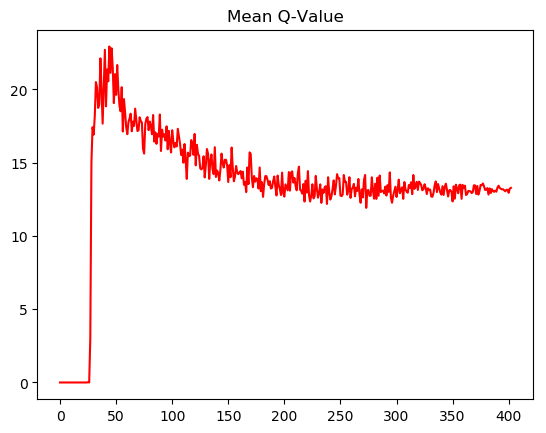
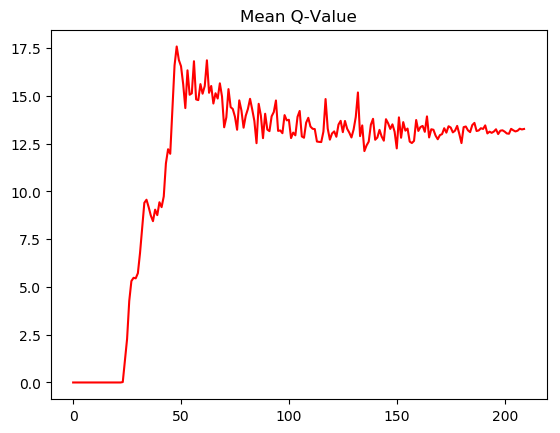
Added deterministic Q-Learning implementation(4x4, 8x8)

diff --git a/QLearning_Deterministic_4x4.py b/QLearning_Deterministic_4x4.py
@@ -1,50 +1,58 @@
-import gym, numpy,random
+import torch, numpy, gym, random
+import torch.nn as nn
+import torch.optim as opt
 import matplotlib.pyplot as plt
 from gym.envs.registration import register
 
 register(
-    id='FrozenLakeDeterministic8x8-v0',
+    id='FrozenLakeDeterministic4x4-v0',
     entry_point='gym.envs.toy_text:FrozenLakeEnv',
-    kwargs={'map_name' : '8x8', 'is_slippery': False}
+    kwargs={'map_name' : '4x4', 'is_slippery': False}
 )
 
-env = gym.make("FrozenLakeDeterministic8x8-v0")
+env = gym.make("FrozenLakeDeterministic4x4-v0")
 action_space = env.action_space.n
 observation_space = env.observation_space.n
-qtable = numpy.zeros((observation_space,action_space))
-# Cant Get Stuck As Easily: qtable = numpy.random.random((observation_space,action_space))
+network = nn.Sequential(nn.Linear(observation_space,4),nn.ReLU(),nn.Linear(4,action_space))
+criterion = nn.MSELoss()
+optimizer = opt.SGD(network.parameters(),lr=0.1)
+#Lower Learning Rate And More Exploration Makes Convergence More Likely
 
 epochs = 100000
 max_epsilon = 1.0
 min_epsilon = 0.01
-#Random Epochs Percentage
-percent = 0.2
+percent = 0.05
 decay_rate = 1/(epochs*percent)
 epsilon = max_epsilon
 
-#A Little Less Than 1 So Actions Dont Reach A Reward Of 1 If They Aren't The Last Action
 discount_factor = 0.99
-learning_rate = 0.6
 
-#Follows Epsilon Greedy Action Selection
+
 def eps_greedy(state):
-    row = qtable[state]
+    state = torch.tensor(numpy.eye(observation_space)[state]).float()
+    qs = network(state)
 
-    if random.random()>=epsilon:
-        action = numpy.argmax(row)
-        return row[action],action
+    if random.random()>epsilon:
+        q,action = qs.max(0)
+        return qs,q,action.item()
     else:
         action = random.randint(0,action_space-1)
-        return row[action],action
+        return qs,qs[action],action
 
-#Returns Highest Expected Reward Estimate For State
 def maxq(state):
-    row = qtable[state]
-    return numpy.max(row)
+    state = torch.tensor(numpy.eye(observation_space)[state]).float()
+    qs = network(state)
+    return qs.max(0)
 
-#Linear Decay
 def decay():
     return max(min_epsilon,epsilon-decay_rate)
+
+def learn(out,target):
+    optimizer.zero_grad()
+    loss = criterion(out,target)
+    loss.backward()
+    optimizer.step()
+    return loss
 
 print("---------TRAINING---------")
 rewards = []
@@ -59,65 +67,64 @@ for e in range(epochs):
 
         while True:
             frames += 1
-            q, action = eps_greedy(state)
+            qs,q, action = eps_greedy(state)
             qval += q.item()
             new_state, reward, done, i = env.step(action)
-
             nt = int(not done)
-            nq = maxq(new_state)
-            qtable[state][action] += learning_rate*( (nt*discount_factor*nq + reward) - q)
+
+            target = qs.clone()
+            nq,naction = maxq(new_state)
+            target[action] = nt*discount_factor*nq + reward
+            learn(qs,target)
 
             runreward+=reward
             state = new_state
-            if done or frames%40 == 0:
+            if done or frames%20 == 0:
                 #print("E: "+str(e)+" F: "+str(frames)+" R: "+str(runreward)+" Eps: "+str(epsilon))
                 rewards.append(runreward)
                 qvals += qval
                 break
-
         epsilon = decay()
         if (e+1)%100==0:
             mean = numpy.mean(rewards[-100:])
-            qvalues.append(qvals/100)
+            qvalues.append(qvals / 100)
             qvals = 0
-            print(str(e+1)+" M: "+str(mean))
+            print(str(e + 1) + " M: " + str(mean))
             rewardmeans.append(mean)
-            if mean==1.0:
+            if mean == 1.0:
                 print("SOLVED!!!")
                 break
 
 print("---------TESTING---------")
-#Tests with 1% randomness
 for e in range(1):
         state = env.reset()
         qs = 0
-        frames = 0
         while True:
-            frames+=1
-
-            q, action = eps_greedy(state)
+            qq, q, action = eps_greedy(state)
             qs+=q
             new_state, reward, done, i = env.step(action)
             env.render()
             state = new_state
-            if done or frames%40 == 0:
+            if done or frames%20 == 0:
                 print(qs)
                 #print("E: "+str(e)+" F: "+str(frames)+" R: "+str(runreward)+" Eps: "+str(epsilon))
                 break
-print("---------Q_TABLE---------")
-print(qtable)
+
+print("---------PSEUDO_Q_TABLE---------")
+for t in range(observation_space):
+    print(network(torch.tensor(numpy.eye(observation_space)[t]).float()))
 
 print("---------PLOTTING---------")
 plt.figure(0)
 plt.plot(rewards)
 plt.title("Reward")
-#plt.savefig('./Plots/QTables/8x8det/reward.png',bbox_inches='tight')
+#plt.savefig('./Plots/QLearning/4x4det/reward.png',bbox_inches='tight')
 plt.figure(1)
 plt.plot(rewardmeans,color="orange")
 plt.title("Mean Reward")
-#plt.savefig('./Plots/QTables/8x8det/meanreward.png',bbox_inches='tight')
+#plt.savefig('./Plots/QLearning/4x4det/meanreward.png',bbox_inches='tight')
 plt.figure(2)
 plt.plot(qvalues,color="red")
 plt.title("Mean Q-Value")
-#plt.savefig('./Plots/QTables/8x8det/meanqvalue.png',bbox_inches='tight')
+#plt.savefig('./Plots/QLearning/4x4det/meanqvalue.png',bbox_inches='tight')
 plt.show()

diff --git a/QLearning_Deterministic_8x8.py b/QLearning_Deterministic_8x8.py
@@ -1,4 +1,6 @@
-import gym, numpy,random
+import torch, numpy, gym, random
+import torch.nn as nn
+import torch.optim as opt
 import matplotlib.pyplot as plt
 from gym.envs.registration import register
 
@@ -11,40 +13,46 @@ register(
 env = gym.make("FrozenLakeDeterministic8x8-v0")
 action_space = env.action_space.n
 observation_space = env.observation_space.n
-qtable = numpy.zeros((observation_space,action_space))
-# Cant Get Stuck As Easily: qtable = numpy.random.random((observation_space,action_space))
+network = nn.Sequential(nn.Linear(observation_space,4),nn.ReLU(),nn.Linear(4,action_space))
+criterion = nn.MSELoss()
+optimizer = opt.SGD(network.parameters(),lr=0.05)
+#Lower Learning Rate And More Exploration Makes Convergence More Likely
 
 epochs = 100000
 max_epsilon = 1.0
 min_epsilon = 0.01
-#Random Epochs Percentage
 percent = 0.2
 decay_rate = 1/(epochs*percent)
 epsilon = max_epsilon
 
-#A Little Less Than 1 So Actions Dont Reach A Reward Of 1 If They Aren't The Last Action
 discount_factor = 0.99
-learning_rate = 0.6
 
-#Follows Epsilon Greedy Action Selection
+
 def eps_greedy(state):
-    row = qtable[state]
+    state = torch.tensor(numpy.eye(observation_space)[state]).float()
+    qs = network(state)
 
-    if random.random()>=epsilon:
-        action = numpy.argmax(row)
-        return row[action],action
+    if random.random()>epsilon:
+        q,action = qs.max(0)
+        return qs,q,action.item()
     else:
         action = random.randint(0,action_space-1)
-        return row[action],action
+        return qs,qs[action],action
 
-#Returns Highest Expected Reward Estimate For State
 def maxq(state):
-    row = qtable[state]
-    return numpy.max(row)
+    state = torch.tensor(numpy.eye(observation_space)[state]).float()
+    qs = network(state)
+    return qs.max(0)
 
-#Linear Decay
 def decay():
     return max(min_epsilon,epsilon-decay_rate)
+
+def learn(out,target):
+    optimizer.zero_grad()
+    loss = criterion(out,target)
+    loss.backward()
+    optimizer.step()
+    return loss
 
 print("---------TRAINING---------")
 rewards = []
@@ -59,13 +67,15 @@ for e in range(epochs):
 
         while True:
             frames += 1
-            q, action = eps_greedy(state)
+            qs,q, action = eps_greedy(state)
             qval += q.item()
             new_state, reward, done, i = env.step(action)
-
             nt = int(not done)
-            nq = maxq(new_state)
-            qtable[state][action] += learning_rate*( (nt*discount_factor*nq + reward) - q)
+
+            target = qs.clone()
+            nq,naction = maxq(new_state)
+            target[action] = nt*discount_factor*nq + reward
+            learn(qs,target)
 
             runreward+=reward
             state = new_state
@@ -74,28 +84,23 @@ for e in range(epochs):
                 rewards.append(runreward)
                 qvals += qval
                 break
-
         epsilon = decay()
         if (e+1)%100==0:
             mean = numpy.mean(rewards[-100:])
-            qvalues.append(qvals/100)
+            qvalues.append(qvals / 100)
             qvals = 0
-            print(str(e+1)+" M: "+str(mean))
+            print(str(e + 1) + " M: " + str(mean))
             rewardmeans.append(mean)
-            if mean==1.0:
+            if mean == 1.0:
                 print("SOLVED!!!")
                 break
 
 print("---------TESTING---------")
-#Tests with 1% randomness
 for e in range(1):
         state = env.reset()
         qs = 0
-        frames = 0
         while True:
-            frames+=1
-
-            q, action = eps_greedy(state)
+            qq, q, action = eps_greedy(state)
             qs+=q
             new_state, reward, done, i = env.step(action)
             env.render()
@@ -104,20 +109,22 @@ for e in range(1):
                 print(qs)
                 #print("E: "+str(e)+" F: "+str(frames)+" R: "+str(runreward)+" Eps: "+str(epsilon))
                 break
-print("---------Q_TABLE---------")
-print(qtable)
+
+print("---------PSEUDO_Q_TABLE---------")
+for t in range(observation_space):
+    print(network(torch.tensor(numpy.eye(observation_space)[t]).float()))
 
 print("---------PLOTTING---------")
 plt.figure(0)
 plt.plot(rewards)
 plt.title("Reward")
-#plt.savefig('./Plots/QTables/8x8det/reward.png',bbox_inches='tight')
+#plt.savefig('./Plots/QLearning/8x8det/reward.png',bbox_inches='tight')
 plt.figure(1)
 plt.plot(rewardmeans,color="orange")
 plt.title("Mean Reward")
-#plt.savefig('./Plots/QTables/8x8det/meanreward.png',bbox_inches='tight')
+#plt.savefig('./Plots/QLearning/8x8det/meanreward.png',bbox_inches='tight')
 plt.figure(2)
 plt.plot(qvalues,color="red")
 plt.title("Mean Q-Value")
-#plt.savefig('./Plots/QTables/8x8det/meanqvalue.png',bbox_inches='tight')
+#plt.savefig('./Plots/QLearning/8x8det/meanqvalue.png',bbox_inches='tight')
 plt.show()

diff --git a/readme.md b/readme.md
@@ -13,7 +13,9 @@ To be researched in depth.
 Current guess is estimating a distribution of actions instead of reward-values.
 Maybe Policy Gradients or N-Step Q-Learning could solve it?
 
-# Results
+# Results 
+Exploration and Learning Rate are big factors of convergence-time and -probability 
+
 ## Q-Tables Deterministic 4x4
 <!-- ![qtablemeanreward](./Plots/QTables/meanreward.png) ![qtablemeanscore](./Plots/QTables/meanscore.png) ![qtableqvalues](./Plots/QTables/qvalues.png) -->
 
@@ -28,4 +30,18 @@ Maybe Policy Gradients or N-Step Q-Learning could solve it?
   <img src="./Plots/QTables/8x8det/reward.png" width="425" />
   <img src="./Plots/QTables/8x8det/meanreward.png" width="425" /> 
   <img src="./Plots/QTables/8x8det/meanqvalue.png" width="425" />
+</p>
+
+## Q-Learning Deterministic 4x4
+<p float="left">
+  <img src="./Plots/QLearning/4x4det/reward.png" width="425" />
+  <img src="./Plots/QLearning/4x4det/meanreward.png" width="425" /> 
+  <img src="./Plots/QLearning/4x4det/meanqvalue.png" width="425" />
+</p>
+
+## Q-Learning Deterministic 8x8
+<p float="left">
+  <img src="./Plots/QLearning/8x8det/reward.png" width="425" />
+  <img src="./Plots/QLearning/8x8det/meanreward.png" width="425" /> 
+  <img src="./Plots/QLearning/8x8det/meanqvalue.png" width="425" />
 </p>
